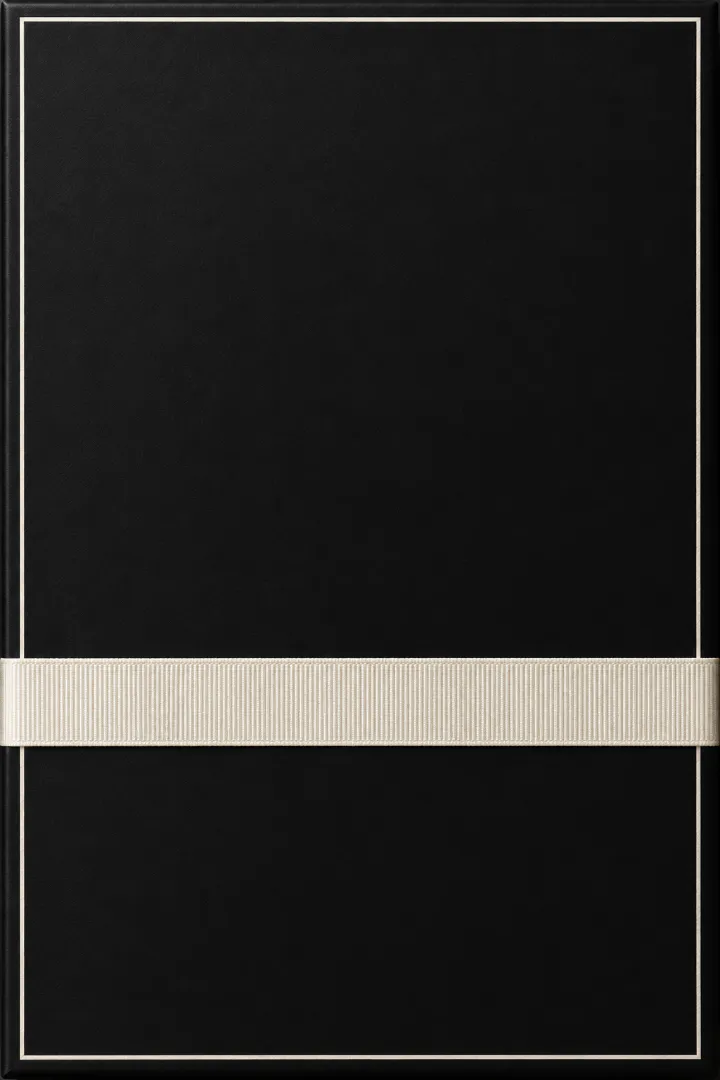
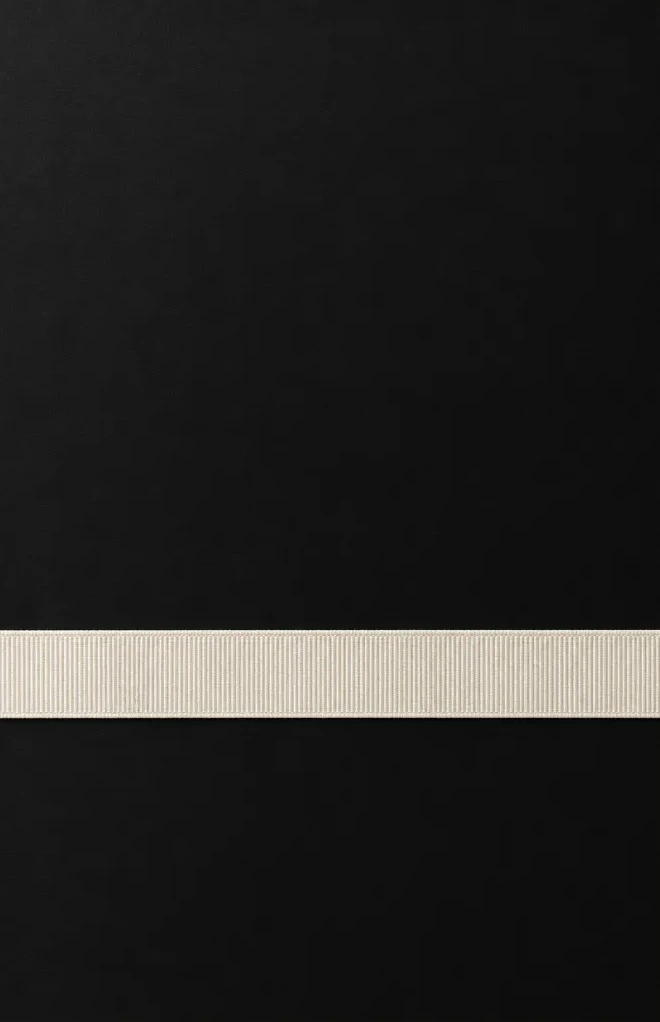
표지: 테두리를 코드로 다시 그림, 시계·날씨 한 줄 추가 (샤넬팀)
- 사진 속 테두리는 잘라 내고 1dp 아이보리 40% 테두리: 좌우 16dp, 위 상태바+12dp, 아래 제스처+28dp
- 페이지 선은 테두리 밖 아래에 그대로
- 시계: 사진 속 리본 아래 32dp, Jost 200 64sp, 숫자 폭 고정, 휴대폰 시각
- 날씨: 시계 아래 12dp, CHANEL 홈에 보이는 문장을 그대로(한국어), HA 연결이 끊기면 숨김
- HA 준비 금선·다시 연결은 테두리 안 맨 아래로

Claude-Session: https://claude.ai/code/session_018aKyYtwF79YZ5v8zAUEZTr

Changed region(s): [[0.0, 0.0, 1.0, 1.0]]

diff --git a/app/src/main/java/com/kiouvici/monsieur/MainActivity.kt b/app/src/main/java/com/kiouvici/monsieur/MainActivity.kt
@@ -181,7 +181,7 @@ class MainActivity : ComponentActivity() {
         override fun onReceive(c: android.content.Context?, i: Intent?) {
             when (i?.action) {
                 Intent.ACTION_SCREEN_OFF -> { closeAllNow(); goPage(0, false) }
-                else -> updateDate()
+                else -> { updateDate(); refreshWeather() }
             }
         }
     }
@@ -203,6 +203,7 @@ class MainActivity : ComponentActivity() {
         repo.reload()
         refreshGrid()
         updateDate()
+        root.postDelayed({ refreshWeather() }, 1500)
         if (!pageLoaded) web.reload()
     }
 
@@ -296,7 +297,7 @@ class MainActivity : ComponentActivity() {
                     showLogin(); return
                 }
                 view?.evaluateJavascript(HIDE_HEADER_JS, null)
-                if (isHome) { pageLoaded = true; hideProgress() }
+                if (isHome) { pageLoaded = true; hideProgress(); root.postDelayed({ refreshWeather() }, 4000) }
             }
             override fun onReceivedError(view: WebView?, req: WebResourceRequest?, err: WebResourceError?) {
                 if (req?.isForMainFrame == true && isHome) { pageLoaded = false; showFail() }
@@ -328,6 +329,9 @@ class MainActivity : ComponentActivity() {
 
     /** 표지: 상태바 뒤까지 꽉 찬 상자 뚜껑 + CHANEL · MONSIEUR + 날짜 (+ 뒤에서 HA를 준비할 때만 금선) */
     private lateinit var wordmark: TextView
+    private lateinit var frame: View
+    private lateinit var clock: TextView
+    private lateinit var weather: TextView
     private lateinit var monsieur: TextView
     private fun buildCover(): FrameLayout {
         val c = FrameLayout(this).apply { setBackgroundColor(Style.INK) }
@@ -345,6 +349,15 @@ class MainActivity : ComponentActivity() {
         c.addView(monsieur, FrameLayout.LayoutParams(-1, -2))
         dateText = label("", Style.jost(this, 300), 11f, Style.ivory(.6f), .3f)
         c.addView(dateText, FrameLayout.LayoutParams(-1, -2))
+        // 시계: 휴대폰 시각, Jost 200 64sp, 숫자 폭 고정 (샤넬팀 6:1)
+        clock = label("", Style.jost(this, 200), 64f, Style.ivory(.9f), .02f).apply { fontFeatureSettings = "tnum" }
+        c.addView(clock, FrameLayout.LayoutParams(-1, -2))
+        // 날씨 한 줄: CHANEL 홈에 실제로 보이는 문장을 그대로 (HA가 끊기면 숨김)
+        weather = label("", Style.kr(this, 300), 13f, Style.ivory(.6f), .1f).apply { visibility = View.INVISIBLE }
+        c.addView(weather, FrameLayout.LayoutParams(-1, -2))
+        // 테두리: 사진 속 테두리는 잘라 내고 코드로 (1dp 아이보리 40%, 각진 모서리)
+        frame = View(this).apply { background = GradientDrawable().apply { setStroke(dp(1f), Style.ivory(.4f)) } }
+        c.addView(frame, FrameLayout.LayoutParams(-1, -1))
         updateDate()
 
         progressTrack = FrameLayout(this).apply { setBackgroundColor(Style.gold(.2f)) }
@@ -367,28 +380,63 @@ class MainActivity : ComponentActivity() {
         return c
     }
 
-    /** 화면 높이에 맞춰 글자 자리: 워드마크 28%, 날짜는 사진 속 리본(높이 61%) 위 24dp */
+    /** 화면 높이에 맞춰 자리 잡기 — 사진 속 리본은 화면 높이 61.8%~70.6% (테두리를 잘라 낸 사진 기준) */
     private fun layoutCover() {
         val h = root.height.takeIf { it > 0 } ?: return
-        val ribbonTop = (h * .61f).toInt()
+        val ribbonTop = (h * .618f).toInt()
+        val ribbonBottom = (h * .706f).toInt()
+        (frame.layoutParams as FrameLayout.LayoutParams).apply {
+            leftMargin = dp(16f); rightMargin = dp(16f); topMargin = sbTop + dp(12f); bottomMargin = navBot + dp(28f)
+        }
         (wordmark.layoutParams as FrameLayout.LayoutParams).topMargin = (h * .28f).toInt()
+        (clock.layoutParams as FrameLayout.LayoutParams).topMargin = ribbonBottom + dp(32f)
         wordmark.post {
             (monsieur.layoutParams as FrameLayout.LayoutParams).topMargin = (h * .28f).toInt() + wordmark.height + dp(16f)
             monsieur.requestLayout()
-            dateText.post {
-                (dateText.layoutParams as FrameLayout.LayoutParams).topMargin = ribbonTop - dp(24f) - dateText.height
-                dateText.requestLayout()
-            }
+            (dateText.layoutParams as FrameLayout.LayoutParams).topMargin = ribbonTop - dp(24f) - dateText.height
+            dateText.requestLayout()
+            (weather.layoutParams as FrameLayout.LayoutParams).topMargin = ribbonBottom + dp(32f) + clock.height + dp(12f)
+            weather.requestLayout()
         }
-        (progressTrack.layoutParams as FrameLayout.LayoutParams).topMargin = (h * .80f).toInt()
-        (failBox.layoutParams as FrameLayout.LayoutParams).topMargin = (h * .78f).toInt()
-        wordmark.requestLayout(); progressTrack.requestLayout(); failBox.requestLayout()
+        // HA 준비 금선·다시 연결은 테두리 안쪽 맨 아래
+        val inBottom = h - navBot - dp(28f)
+        (progressTrack.layoutParams as FrameLayout.LayoutParams).apply { topMargin = inBottom - dp(16f); leftMargin = dp(32f); rightMargin = dp(32f) }
+        (failBox.layoutParams as FrameLayout.LayoutParams).topMargin = inBottom - dp(96f)
+        listOf(frame, wordmark, clock, progressTrack, failBox).forEach { it.requestLayout() }
+    }
+
+    /** CHANEL 홈 화면(뒤에 열어 둔 웹뷰)에 실제로 보이는 날씨 문장을 읽어 옴. 연결이 끊겼으면 숨김 */
+    private fun refreshWeather() {
+        if (!::web.isInitialized || !::weather.isInitialized) return
+        val js = """(function(){try{
+ var ha=document.querySelector('home-assistant'); if(!ha||!ha.hass||!ha.hass.connected) return '';
+ var hit='';
+ (function walk(r){ if(hit) return; r.querySelectorAll('*').forEach(function(e){ if(e.shadowRoot) walk(e.shadowRoot); });
+   var tw=document.createTreeWalker(r,NodeFilter.SHOW_TEXT),n;
+   while(!hit&&(n=tw.nextNode())){ var t=(n.textContent||'').trim(); if(/^-?\d+(\.\d+)?°\s*·/.test(t)&&t.length<60) hit=t; } })(document);
+ return hit; }catch(e){ return ''; }})()"""
+        web.evaluateJavascript(js) { r ->
+            val t = try { org.json.JSONArray("[" + (r ?: "\"\"") + "]").optString(0, "") } catch (e: Exception) { "" }
+            if (t.isBlank() || t == "null") { weather.visibility = View.INVISIBLE; return@evaluateJavascript }
+            weather.text = styledWeather(t)
+            weather.visibility = View.VISIBLE
+        }
+    }
+
+    /** 숫자는 Jost 300, 글자는 Noto Sans KR 300 */
+    private fun styledWeather(t: String): CharSequence {
+        val sp = android.text.SpannableString(t)
+        Regex("[0-9°.-]+").findAll(t).forEach {
+            sp.setSpan(android.text.style.TypefaceSpan(Style.jost(this, 300)), it.range.first, it.range.last + 1, 0)
+        }
+        return sp
     }
 
     private fun updateDate() {
-        if (!::dateText.isInitialized) return
+        if (!::dateText.isInitialized || !::clock.isInitialized) return
         val cal = java.util.Calendar.getInstance()
         val days = arrayOf("DIMANCHE", "LUNDI", "MARDI", "MERCREDI", "JEUDI", "VENDREDI", "SAMEDI")
+        clock.text = "%02d:%02d".format(cal.get(java.util.Calendar.HOUR_OF_DAY), cal.get(java.util.Calendar.MINUTE))
         dateText.text = "%d · %d · %s".format(
             cal.get(java.util.Calendar.DAY_OF_MONTH), cal.get(java.util.Calendar.MONTH) + 1,
             days[cal.get(java.util.Calendar.DAY_OF_WEEK) - 1])
